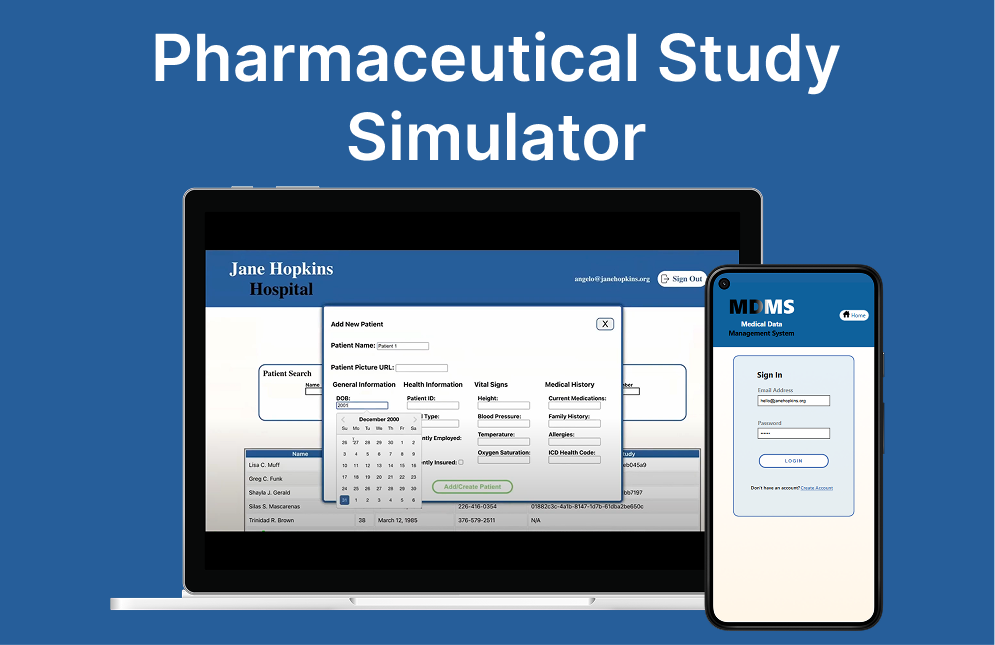
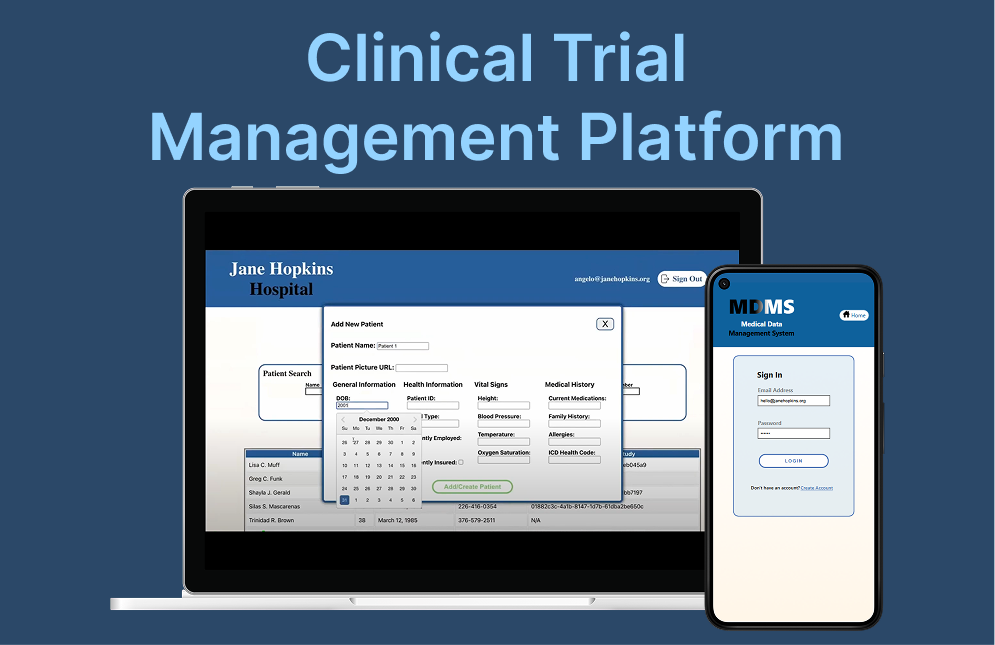
Updates to info

diff --git a/src/components/sections/About.tsx b/src/components/sections/About.tsx
@@ -11,10 +11,21 @@ const About = () => {
         viewport={{ once: true, amount: 0.3 }}
         transition={{ duration: 1 }}
       >
-        <p>Hi! I’m a computer science student at CSU Sacramento, graduating in December 2025, with experience building real-world software across large companies, startups, and non-profits</p>
-        <p>I’ve contributed to open-source projects like the npm CLI and DocsGPT, developed UI mobile app features for an early startup, and am currently automating workflows at Intel.</p>
-        <p>For projects, I’ve contributed to development and led teams on full-stack projects, including a chemical inventory mobile app for a school and an AI education tool for a hackathon.</p>
-        <p>I’m passionate about learning, collaborating with talented people, and building impactful software that serves real users.</p>
+        <p>Hi! I’m a computer science graduate at CSU Sacramento (December 2025) who enjoys building user-focused 
+          software across the stack, with experience working at large companies, startups, and non-profits.
+        </p>
+
+        <p>I’ve contributed to open-source projects including npm, freeCodeCamp, and DocsGPT, developed UI mobile  
+          app features for an early startup, and currently focus on automation and machine learning at Intel.
+        </p>
+
+        <p>Outside of work, I’ve contributed to development and led teams on full-stack projects, including a 
+          chemical inventory mobile app for a school and an AI education tool for students.
+        </p>
+
+        <p>I’m excited about learning quickly, collaborating with strong engineering teams, and building software 
+          that makes a meaningful impact for users.
+        </p>
       </motion.div>
     </Section>
   )

diff --git a/src/data/experienceData.ts b/src/data/experienceData.ts
@@ -9,9 +9,10 @@ export interface JobExperience {
 export const experiences: JobExperience[] = [
     // Intel SWE Internship
     {
-        date: "JUN 2025 - ONGOING",
+        date: "JUN 2025 - JAN 2026",
         title: "Debug Software Engineer Intern @ Intel",
-        desc: "As part of the Windows and AI Customer Engineering team, I'm automating and optimizing validation tools, building a machine learning model to forecast internal platform needs, and supporting debugging of current and next-generation Intel platforms.",
+        desc: "As part of the Windows and AI Customer Engineering team at Intel, I automated and optimized customer validation tooling and built a multi-stage machine learning pipeline to forecast platform needs."
+            + "I also supported debugging efforts for current and next-generation Intel platforms for major OEM customers.",
         skills: ["Python", "PowerShell", "Windows"],
     },
 

diff --git a/src/components/sections/Home.tsx b/src/components/sections/Home.tsx
@@ -31,7 +31,7 @@ const Home = () => {
                 <h1 className="flex justify-center sm:justify-start">
                     <span className='hidden sm:inline text-[var(--white)]'>{'I\'m ' + (isAn ? 'an' : 'a')}&nbsp;</span>
                     <RotatingText
-                        texts={['Software Engineer', 'Sac State Student', 'Frontend Developer', 'OSS Contributor', 'Full Stack Developer']}
+                        texts={['Software Engineer', 'Sac State Graduate', 'Frontend Developer', 'OSS Contributor', 'Full Stack Developer']}
                         staggerDuration={0.02}
                         rotationInterval={3500}
                         mainClassName={'text-[var(--red)] text-[1.9rem] sm:text-5xl md:text-[3rem] lg:text-7xl'}

diff --git a/src/data/projectsData.ts b/src/data/projectsData.ts
@@ -99,7 +99,7 @@ export const projects: Project[] = [
 
     // Pharma Study
     {
-        title: 'Pharma Study Simulator',
+        title: 'Clinical Trial Management Platform',
         desc: 'Co-led a team of 7 for 5 months to build a pharmaceutical study web app for Vendia Inc.',
         src: 'projects/Pharma.png',
         alt: 'Blue background with title: Pharmaceutical Study Simulator. Shows the pharmaceutical study web on a laptop and phone.',
